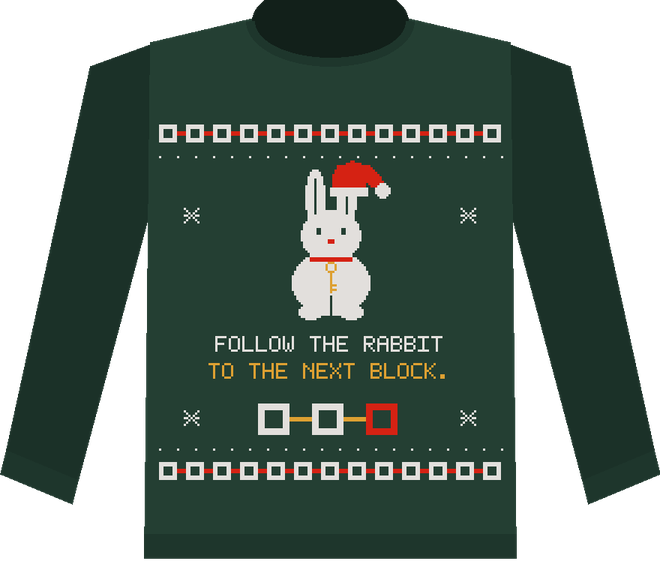
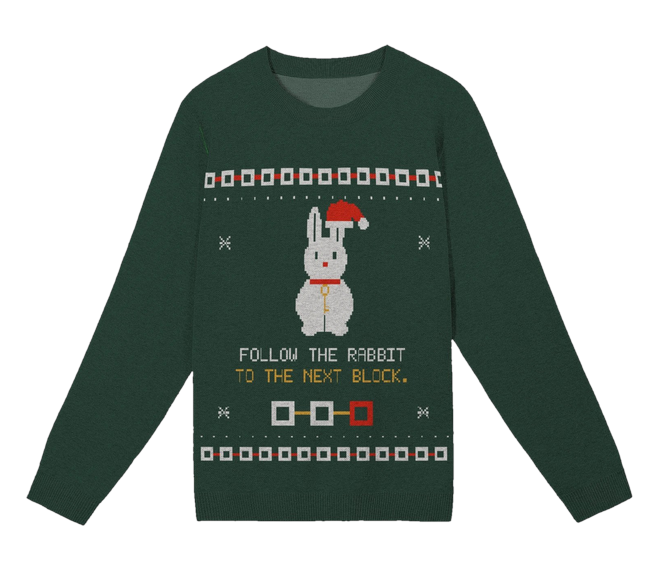
Shop: the real product photos everywhere (#720)

diff --git a/assets/i18n/ja/hud.js b/assets/i18n/ja/hud.js
@@ -2578,4 +2578,5 @@ TauI18n.add({ strings: {
   "Blog: the article about the shop and monthly support now explains what each piece quotes and why it is a joke, from the node's INSUFFICIENT_FUNDS to the sweater with a real Tau Language rule. It also names Fourthwall's order-by dates for delivery before Christmas.": "ブログ：ショップと毎月の支援についての記事に、各グッズが何を引用していて、どこがネタなのかの解説を加えました。ノードの INSUFFICIENT_FUNDS から、本物の Tau Language のルールを編み込んだセーターまで。クリスマス前に届くための Fourthwall の注文期限も載せています。",
   "Cruise: the Black Sequence tries three more tricks, each against a rule the testnet gave every account on 13 November, a personal policy clause of its own. A pirate sends a policy rule and a coin in one payment, and the chain keeps the two apart; writes its own policy and the chain’s own fee stream in one rule, where a clause may write only its own policy; and offers a policy clause with more comparisons than one may carry. Each is refused, as it should be.": "クルーズ：ブラック・シーケンスはさらに三つの仕掛けを試す。いずれも、テストネットが11月13日に各アカウントへ与えた新しいルール——自分だけの個人ポリシー節——に対するものだ。海賊は1回の支払いでポリシールールとコインを一緒に送り、チェーンは両者を分ける。1つのルールで自分のポリシーとチェーン自身の手数料ストリームの両方に書き込むが、1つの節は自分のポリシーしか書けない。そして、1つの節が持てる数を超える比較を持つポリシー節を提出する。いずれも、あるべき通りに拒否される。",
   "Tau HUD now has a shop and a monthly way to support it. Here is where the money goes.": "Tau HUD にショップと毎月の支援ができました。お金の行き先をここに書きます。",
+  "Shop: the pieces now show the shop's own product photos everywhere on the site, in the shop notice on the HUD, on the Support page, in the blog article and next to the lines that point to a piece.": "ショップ：サイト内のグッズは、どこでもショップの実際の商品写真で表示されるようになりました。HUD のショップ案内、支援ページ、ブログ記事、グッズを紹介する一文の横です。",
 } });

diff --git a/assets/i18n/zh/hud.js b/assets/i18n/zh/hud.js
@@ -2613,4 +2613,5 @@ TauI18n.add({ strings: {
   "Blog: the article about the shop and monthly support now explains what each piece quotes and why it is a joke, from the node's INSUFFICIENT_FUNDS to the sweater with a real Tau Language rule. It also names Fourthwall's order-by dates for delivery before Christmas.": "博客：关于小店和每月支持的文章现在解释了每件商品引用的是什么、梗在哪里，从节点的 INSUFFICIENT_FUNDS 到织着一条真实 Tau Language 规则的毛衣。文章还列出了 Fourthwall 给出的圣诞节前送达的最晚下单日期。",
   "Cruise: the Black Sequence tries three more tricks, each against a rule the testnet gave every account on 13 November, a personal policy clause of its own. A pirate sends a policy rule and a coin in one payment, and the chain keeps the two apart; writes its own policy and the chain’s own fee stream in one rule, where a clause may write only its own policy; and offers a policy clause with more comparisons than one may carry. Each is refused, as it should be.": "邮轮：黑序列号再尝试三种花招，每一种都针对测试网 11 月 13 日给每个账户的一条新规则——它自己的个人策略子句。一个海盗在一笔付款里同时发送一条策略规则和一枚币，链会把两者分开；用一条规则同时写入自己的策略和链自己的收费流，而一条子句只能写自己的策略；以及提交一条比较次数超过单条上限的策略子句。每一种都如应有地被拒绝。",
   "Tau HUD now has a shop and a monthly way to support it. Here is where the money goes.": "Tau HUD 现在有了一个小店和每月支持的方式。钱都去了哪里，这里写清楚。",
+  "Shop: the pieces now show the shop's own product photos everywhere on the site, in the shop notice on the HUD, on the Support page, in the blog article and next to the lines that point to a piece.": "商店：网站上各处的商品现在都使用商店自己的产品照片，包括 HUD 上的商店提示、支持页、博客文章，以及指向某件商品的那些提示行。",
 } });
